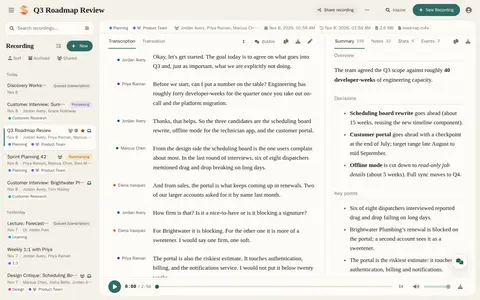
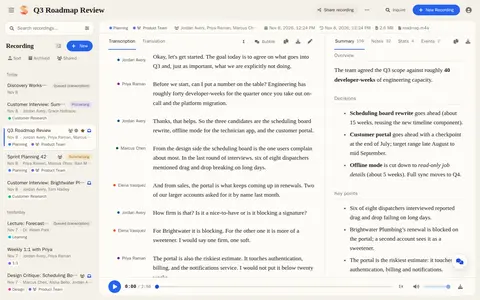
Focus UI theme: header note on !important, preview from the port (blue scheme)

diff --git a/static/css/themes/focus.css b/static/css/themes/focus.css
@@ -12,6 +12,11 @@
  * file never sets. It supplies the neutrals, shapes, type and status tones.
  * The --f-* names below are this theme's own tokens.
  *
+ * Legacy markup still carries Tailwind utilities and inline styles for
+ * backgrounds, borders and colours. The few `!important` declarations below
+ * are the ones that must beat them; removing all of them changed the main
+ * views visibly, so they stay.
+ *
  * No font file is bundled. The reading face is a system serif stack ordered
  * by quality of the face and by how widely it is installed.
  * ========================================================================= */
